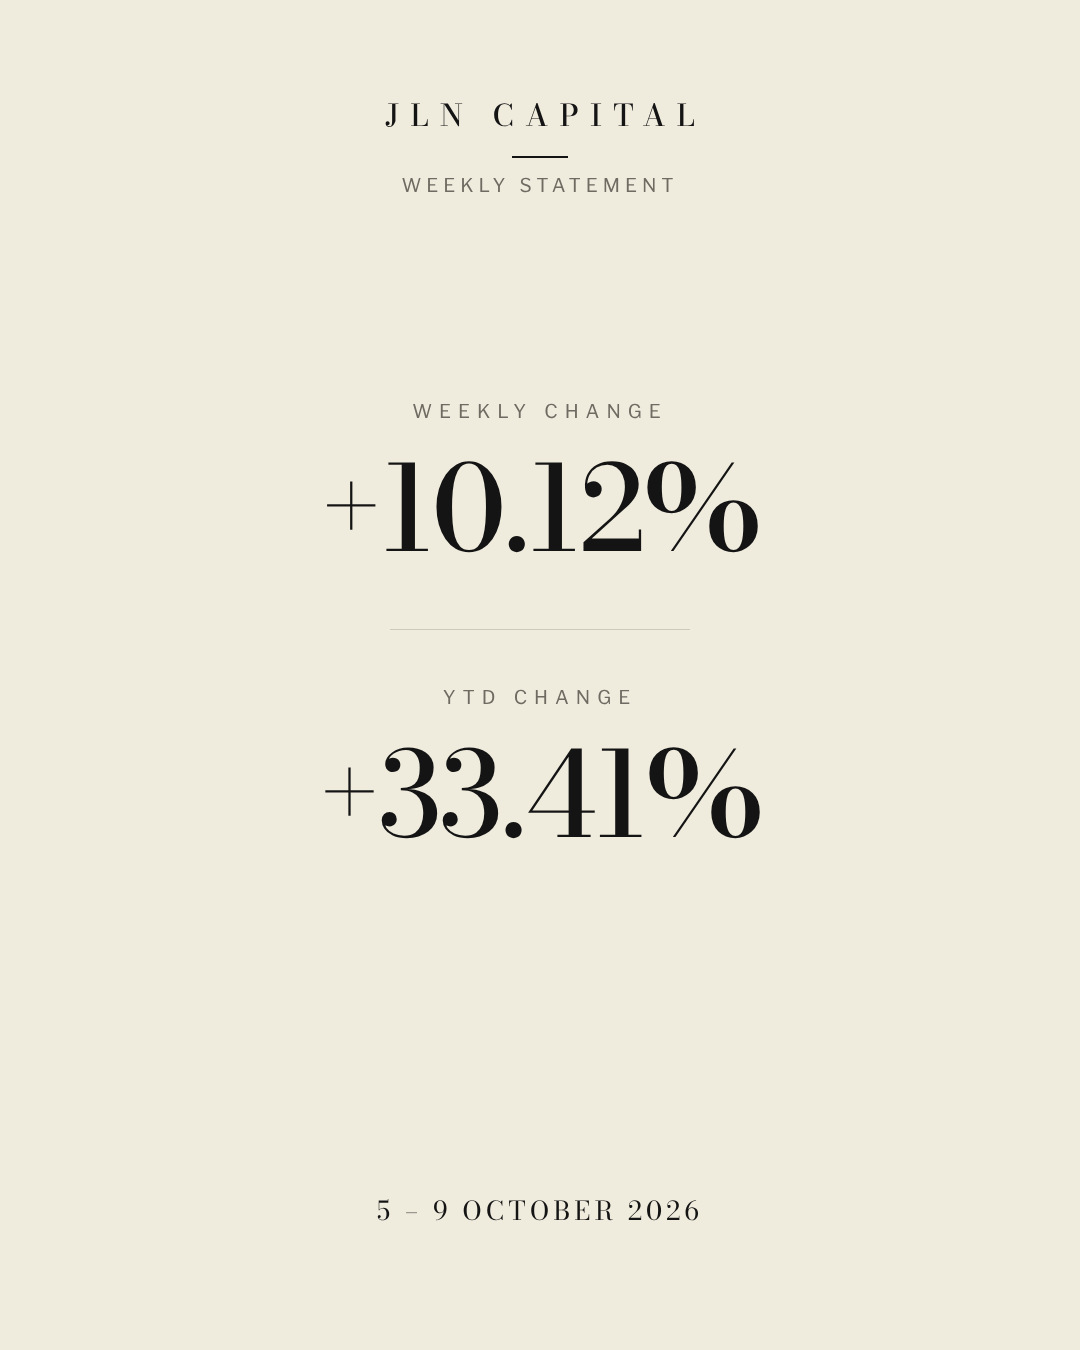
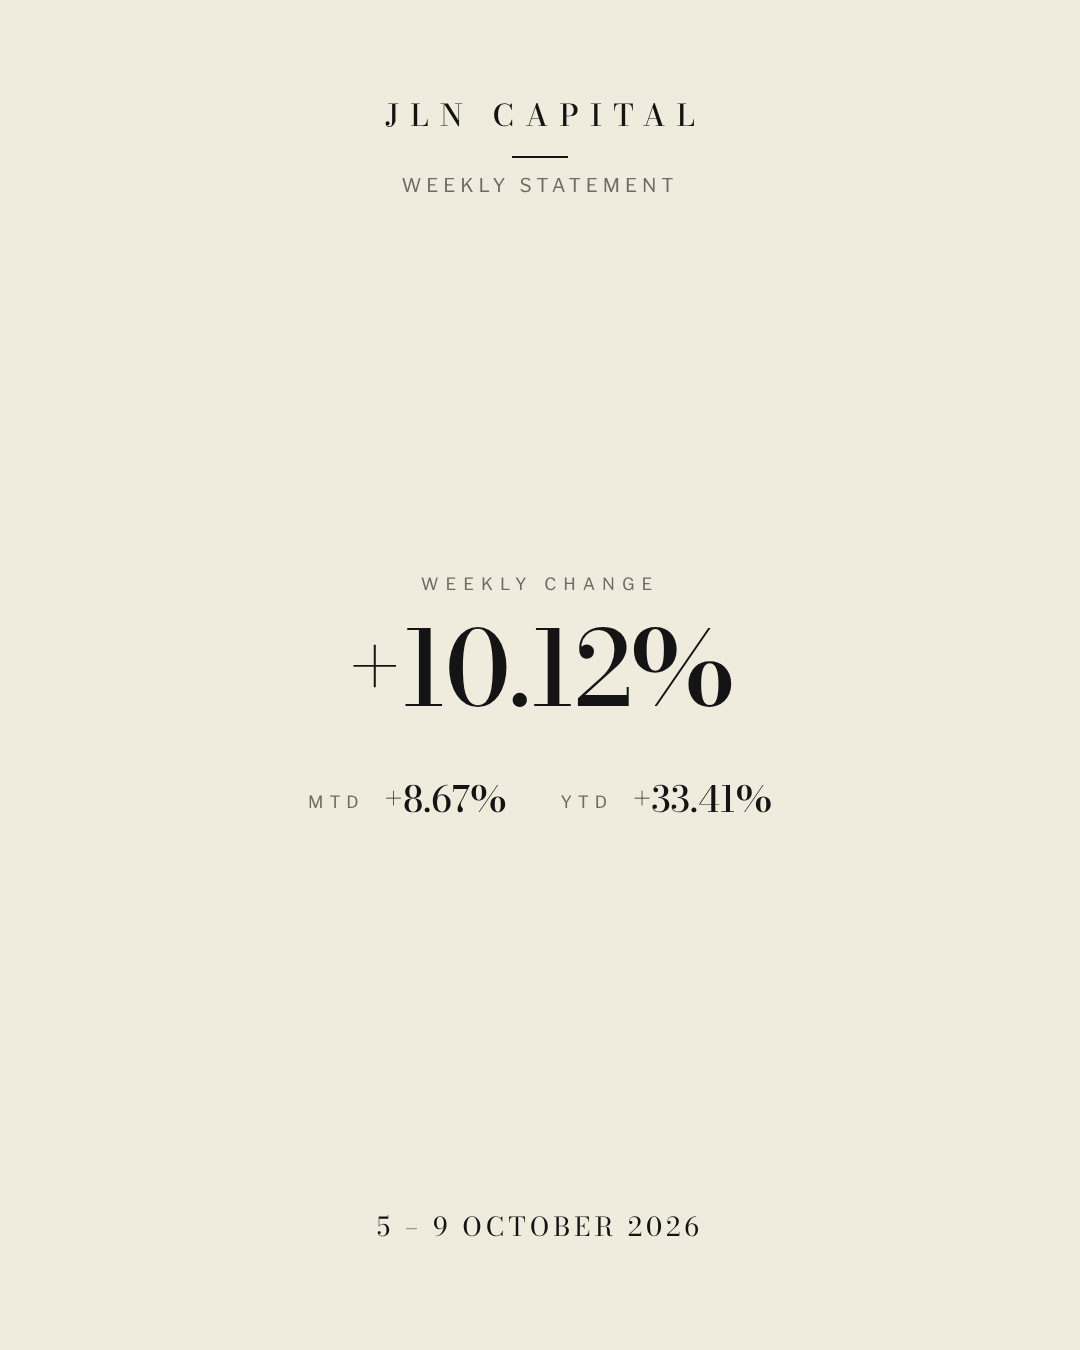
Weekly and monthly statements: new card design, monthly generator, history images
Claude-Session: https://claude.ai/code/session_01XGddGV8oYQjdjm7ZktHqHP

diff --git a/pipeline/weekly.py b/pipeline/weekly.py
@@ -1,7 +1,7 @@
 #!/usr/bin/env python3
 """JLN Capital weekly statement post (single image) for the 'JLN Weekly' autolist.
 
-Usage: python3 pipeline/weekly.py [YYYY-MM-DD] [--no-feed]
+Usage: python3 pipeline/weekly.py [YYYY-MM-DD] [--no-feed] [--post-only]
 The date is any day of the week to report (default: today in Madrid). Uses pipeline/history.json.
 Writes weekly/<monday>/post.jpg (feed post, replaces weekly.xml, read by the 'JLN Weekly' autolist) and two story frames\n(By Day, By Market) that are appended to feed.xml after today's daily stories.
 Prints NO_WEEK and changes nothing if that week has no trading day in the history.
@@ -15,6 +15,44 @@ import note
 DN = ['Mon', 'Tue', 'Wed', 'Thu', 'Fri']
 
 
+def attribution(days, D):
+    """Exact contribution of each market to the compounded return of a period: every daily contribution is
+    weighted by the equity at the start of that day, so the figures add up to the period return."""
+    e = 1.0; out = {}
+    for d in days:
+        v = D[d]; tot = sum(v.get('by', {}).values()); k = v['r'] / tot if abs(tot) > 1e-9 else 1
+        for s, c in v.get('by', {}).items(): out[s] = out.get(s, 0) + c * k * e
+        e *= 1 + v['r'] / 100
+    return sorted(out.items(), key=lambda x: -x[1])
+
+
+def col(v):
+    return r.FG if v >= 0 else r.MU
+
+
+def figure(label, v, size=104):
+    """Main figure of a statement card: small label and the number."""
+    return f'<div style="display:flex;flex-direction:column;align-items:center;gap:{round(size * 0.22)}px"><div style="{r.L};font-size:17px;letter-spacing:7px;color:{r.MU}">{label}</div><div style="{r.B};font-weight:500;font-size:{size}px;line-height:1;letter-spacing:-0.02em;color:{col(v)}">{r.fp(v)}</div></div>'
+
+
+def line(items):
+    """Secondary line: [(label, value), ...] in small type."""
+    return '<div style="display:flex;gap:54px;align-items:baseline">' + ''.join(f'<div style="{r.L};font-size:17px;letter-spacing:6px;color:{r.MU}">{a} &nbsp;<span style="{r.B};font-weight:500;font-size:36px;letter-spacing:0;color:{col(v)};vertical-align:-4px">{r.fp(v)}</span></div>' for a, v in items) + '</div>'
+
+
+def building(bw=480):
+    bh = round(bw * 172 / 532)
+    return f'<div style="opacity:0.5;width:{bw + 80}px;display:flex;flex-direction:column;align-items:center"><svg width="{bw}" height="{bh}" viewBox="8 28 532 172">{r.building(r.FG, 1.3, 0)}</svg><div style="width:{bw + 80}px;height:1.5px;background:{r.FG};margin-top:-1px"></div></div>'
+
+
+def card(label, blocks, foot, gap=50):
+    """1080x1350 statement card: header, vertically centred blocks, footer."""
+    return f'''<html><head><meta charset="utf-8"><style>{r.FF}body{{margin:0}}</style></head><body><div style="position:relative;width:1080px;height:1350px;background:{r.BG};color:{r.FG};overflow:hidden">
+<div style="position:absolute;left:0;right:0;top:92px;text-align:center"><div style="{r.B};font-weight:500;font-size:30px;letter-spacing:11px;margin-right:-11px">JLN CAPITAL</div><div style="width:56px;height:1.5px;background:{r.FG};margin:18px auto 16px"></div><div style="{r.L};font-size:19px;letter-spacing:5px;color:{r.MU}">{label}</div></div>
+<div style="position:absolute;left:0;right:0;top:250px;height:900px;display:flex;flex-direction:column;align-items:center;justify-content:center;gap:{gap}px">{"".join(blocks)}</div>
+<div style="position:absolute;left:0;right:0;bottom:104px;text-align:center;{r.B};font-size:26px;letter-spacing:4px">{foot}</div></div></body></html>'''
+
+
 def main():
     args = [a for a in sys.argv[1:] if not a.startswith('--')]
     day = dt.date.fromisoformat(args[0]) if args else dt.datetime.now(zoneinfo.ZoneInfo('Europe/Madrid')).date()
@@ -26,24 +64,13 @@ def main():
         print('NO_WEEK', mon); return
     comp = lambda xs: (math.prod(1 + x / 100 for x in xs) - 1) * 100
     wk = comp([D[d]['r'] for d in ds]); ytd = comp([v['r'] for d, v in sorted(D.items()) if d.year == fri.year and d <= fri])
-    by = {}
-    for d in ds:
-        for s, v in D[d].get('by', {}).items(): by[s] = by.get(s, 0) + v
-    k = wk / sum(by.values()) if by and abs(sum(by.values())) > 1e-9 else 1
-    if not 0.5 <= k <= 1.5: k = 1  # never rescale when the sum is tiny or of opposite sign (would distort or flip signs)
-    by = sorted(((s, v * k) for s, v in by.items()), key=lambda x: -x[1])
+    last = ds[-1]; mtd = comp([D[d]['r'] for d in sorted(D) if (d.year, d.month) == (last.year, last.month) and d <= last])
+    by = attribution(ds, D)
     MU_, M3 = [m.upper() for m in r.MON], [m[:3].upper() for m in r.MON]
     rng = f'{mon.day} – {fri.day} {MU_[fri.month - 1]} {fri.year}' if mon.month == fri.month else f'{mon.day} {M3[mon.month - 1]} – {fri.day} {M3[fri.month - 1]} {fri.year}'
     rng_txt = f'{mon.day} – {fri.day} {r.MON[fri.month - 1]} {fri.year}' if mon.month == fri.month else f'{mon.day} {r.MON[mon.month - 1][:3]} – {fri.day} {r.MON[fri.month - 1][:3]} {fri.year}'
     c = lambda v: r.FG if v >= 0 else r.MU
-    html = f'''<html><head><meta charset="utf-8"><style>{r.FF}body{{margin:0}}</style></head><body><div style="position:relative;width:1080px;height:1350px;background:{r.BG};color:{r.FG};overflow:hidden">
-<div style="position:absolute;left:0;right:0;top:92px;text-align:center"><div style="{r.B};font-weight:500;font-size:30px;letter-spacing:11px;margin-right:-11px">JLN CAPITAL</div><div style="width:56px;height:1.5px;background:{r.FG};margin:18px auto 16px"></div><div style="{r.L};font-size:19px;letter-spacing:5px;color:{r.MU}">WEEKLY STATEMENT</div></div>
-<div style="position:absolute;left:0;right:0;top:400px;display:flex;flex-direction:column;align-items:center">
-<div style="{r.L};font-size:19px;letter-spacing:7px;color:{r.MU}">WEEKLY CHANGE</div><div style="{r.B};font-weight:500;font-size:118px;line-height:1;letter-spacing:-2px;color:{c(wk)};margin-top:26px">{r.fp(wk)}</div>
-<div style="width:300px;height:1px;background:{r.LN};margin:62px 0 56px"></div>
-<div style="{r.L};font-size:19px;letter-spacing:7px;color:{r.MU}">YTD CHANGE</div><div style="{r.B};font-weight:500;font-size:118px;line-height:1;letter-spacing:-2px;color:{c(ytd)};margin-top:26px">{r.fp(ytd)}</div></div>
-<div style="position:absolute;left:0;right:0;bottom:120px;text-align:center;{r.B};font-size:26px;letter-spacing:4px">{rng}</div>
-</div></body></html>'''
+    html = card('WEEKLY STATEMENT', [figure('WEEKLY CHANGE', wk), line([('MTD', mtd), ('YTD', ytd)])], rng)
     from playwright.sync_api import sync_playwright
     from PIL import Image
     out_dir = os.path.join(ROOT, 'weekly', mon.isoformat()); os.makedirs(out_dir, exist_ok=True)
@@ -57,6 +84,8 @@ def main():
     for x in (tmp, png):
         try: os.remove(x)
         except OSError: pass
+    if '--post-only' in sys.argv:   # backfill: only the post image, no stories, no feeds
+        print('OK', f, f'week {r.fp(wk)}', f'mtd {r.fp(mtd)}', f'ytd {r.fp(ytd)}'); return
     # ---- story frames (By Day, By Market) for the 'JLN Daily' stories autolist
     def rows(items, tot):
         mx = max([abs(v) for _, v in items if v is not None] or [1]) or 1
@@ -90,7 +119,7 @@ def main():
         except OSError: pass
     days = ' · '.join(f"{DN[d.weekday()]} {r.fp(D[d]['r'])}" for d in ds)
     mk = ' · '.join(f'{s} {r.fp(v)}' for s, v in by)
-    text = f"Weekly Statement · {rng_txt}\n\nWeekly change: {r.fp(wk)}\nYTD change: {r.fp(ytd)}\n\n{days}\n\n{mk}\n\nNot investment advice.\n\n#algorithmictrading #proprietarytrading #weeklystatement"
+    text = f"Weekly Statement · {rng_txt}\n\nWeekly change: {r.fp(wk)}\nMTD change: {r.fp(mtd)}\nYTD change: {r.fp(ytd)}\n\n{days}\n\n{mk}\n\nNot investment advice.\n\n#algorithmictrading #proprietarytrading #weeklystatement"
     if '--no-feed' not in sys.argv:
         stamp = dt.datetime.now(dt.timezone.utc).strftime('%Y%m%d%H%M%S')
         note.write_feed([(f'weekly-{mon.isoformat()}-{stamp}', f'Weekly {mon.isoformat()}', text, f, stamp)], 'weekly.xml', 'Weekly')

diff --git a/pipeline/monthly.py b/pipeline/monthly.py
@@ -1,0 +1,53 @@
+#!/usr/bin/env python3
+"""JLN Capital monthly statement post (single image with the building), published through the 'JLN Posts' autolist.
+
+Usage: python3 pipeline/monthly.py [YYYY-MM] [--no-feed]
+Default month: the previous calendar month (Madrid time). Uses pipeline/history.json.
+Writes monthly/YYYY-MM/post.jpg and, unless --no-feed, replaces posts.xml with this single item.
+Prints NO_MONTH and changes nothing if that month has no trading day in the history.
+"""
+import sys, os, json, math, datetime as dt, zoneinfo
+ROOT = os.path.dirname(os.path.dirname(os.path.abspath(__file__)))
+sys.path.insert(0, os.path.join(ROOT, 'pipeline'))
+import render as r
+import note
+import weekly as w
+
+
+def main():
+    args = [a for a in sys.argv[1:] if not a.startswith('--')]
+    if args:
+        y, m = map(int, args[0].split('-'))
+    else:
+        t = dt.datetime.now(zoneinfo.ZoneInfo('Europe/Madrid')).date().replace(day=1) - dt.timedelta(days=1); y, m = t.year, t.month
+    H = json.load(open(os.path.join(ROOT, 'pipeline', 'history.json')))
+    D = {dt.date.fromisoformat(k): v for k, v in H.items()}
+    ds = [d for d in sorted(D) if (d.year, d.month) == (y, m)]
+    if not ds:
+        print('NO_MONTH', f'{y}-{m:02d}'); return
+    comp = lambda xs: (math.prod(1 + x / 100 for x in xs) - 1) * 100
+    mo = comp([D[d]['r'] for d in ds]); ytd = comp([D[d]['r'] for d in sorted(D) if d.year == y and d <= ds[-1]])
+    by = w.attribution(ds, D); name = r.MON[m - 1]
+    html = w.card('MONTHLY STATEMENT', [f'<div style="{r.B};font-weight:500;font-size:80px;line-height:1">{name}</div>', w.figure('MONTHLY CHANGE', mo), w.line([('YTD', ytd)]), w.building(480)], str(y), 48)
+    from playwright.sync_api import sync_playwright
+    from PIL import Image
+    f = f'monthly/{y}-{m:02d}/post.jpg'; os.makedirs(os.path.join(ROOT, os.path.dirname(f)), exist_ok=True)
+    tmp = os.path.join(ROOT, 'pipeline', '_tmp.html'); png = os.path.join(ROOT, 'pipeline', '_tmp.png')
+    with sync_playwright() as p:
+        br = p.chromium.launch(); pg = br.new_page(viewport={'width': 1080, 'height': 1350})
+        open(tmp, 'w', encoding='utf-8').write(html); pg.goto('file://' + tmp); pg.wait_for_timeout(400); pg.screenshot(path=png); br.close()
+    Image.open(png).convert('RGB').save(os.path.join(ROOT, f), 'JPEG', quality=93, subsampling=0, optimize=True)
+    Image.open(png).save('/tmp/jln_monthly_preview.png')
+    for x in (tmp, png):
+        try: os.remove(x)
+        except OSError: pass
+    pos = sum(D[d]['r'] > 0 for d in ds); mk = ' · '.join(f'{s} {r.fp(v)}' for s, v in by)
+    text = f"Monthly Statement · {name} {y}\n\nMonthly change: {r.fp(mo)}\nYTD change: {r.fp(ytd)}\n\n{mk}\n\n{len(ds)} trading days, {pos} positive.\n\nNot investment advice.\n\n#algorithmictrading #proprietarytrading #monthlystatement"
+    if '--no-feed' not in sys.argv:
+        stamp = dt.datetime.now(dt.timezone.utc).strftime('%Y%m%d%H%M%S')
+        note.write_feed([(f'monthly-{y}-{m:02d}-{stamp}', f'Monthly {y}-{m:02d}', text, f, stamp)])
+    print('OK', f, f'month {r.fp(mo)}', f'ytd {r.fp(ytd)}'); print(text); print('PREVIEW /tmp/jln_monthly_preview.png')
+
+
+if __name__ == '__main__':
+    main()

diff --git a/pipeline/README.md b/pipeline/README.md
@@ -22,3 +22,12 @@ Requirements: Python 3 with `playwright` (Chromium) and `Pillow`. Fonts are in `
 - `render.py` : parser, validation, charts, pages, feed.
 - `config.json` : `test_magics` = magic numbers of test strategies (hidden from charts, still counted in results).
 - `history.json` : daily result in percent since inception, used for MTD/YTD.
+
+## Weekly, monthly and notes
+
+- `weekly.py` : weekly statement post (WEEKLY CHANGE with a small MTD / YTD line) -> `weekly.xml` ('JLN Weekly' autolist), plus two
+  story frames appended to `feed.xml`. Run on Fridays by the daily job. `--post-only` renders only the image (backfill).
+- `monthly.py` : monthly statement post (month, MONTHLY CHANGE, YTD line, building) -> `posts.xml` ('JLN Posts' autolist).
+  Run by the notes job on its first run of a month, in place of that day's note, when `monthly/YYYY-MM/post.jpg` of the
+  previous month does not exist yet.
+- `note.py` + `NOTES.md` : the notes series -> `posts.xml`.
